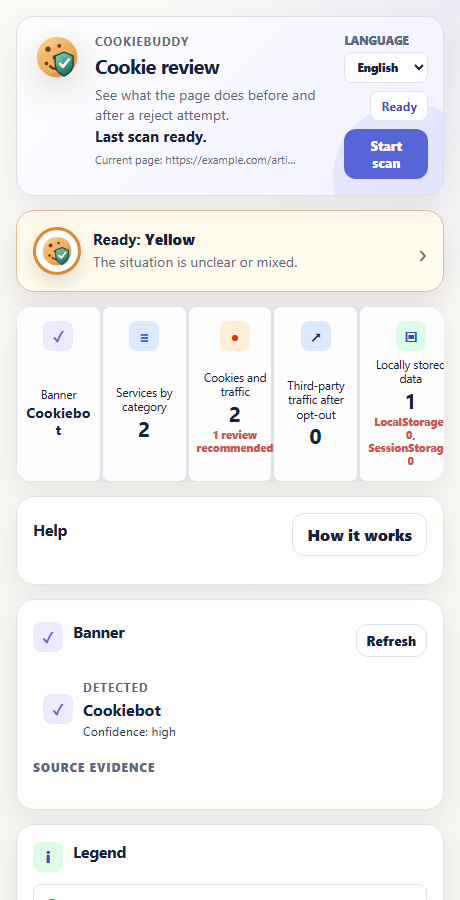
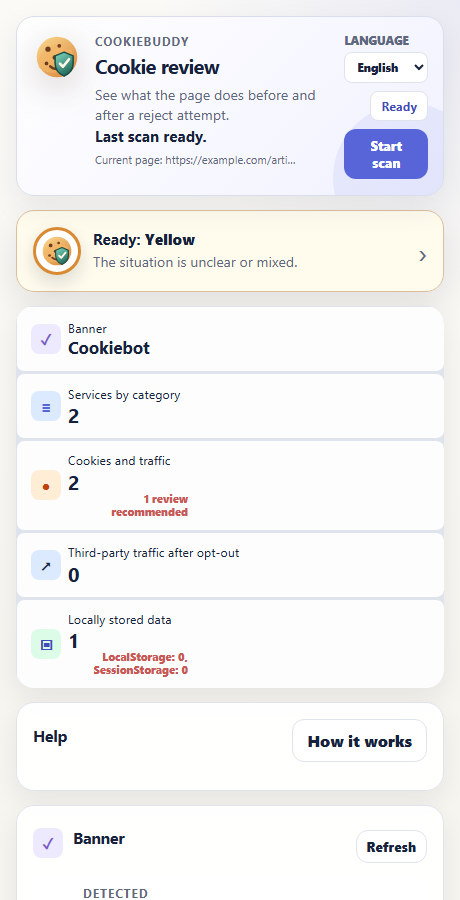
Stack overview metrics for popup readability

Changed region(s): [[0.0304, 0.3422, 0.9739, 0.6533], [0.0609, 0.6844, 0.9435, 1.0], [0.7913, 0.6844, 0.913, 0.7156]]

diff --git a/src/styles.css b/src/styles.css
@@ -1188,6 +1188,53 @@ body {
   }
 }
 
+/* Keep the overview readable in the narrow extension popup: one metric per row. */
+.overview-grid {
+  grid-template-columns: 1fr;
+}
+
+.overview-tile {
+  display: grid;
+  grid-template-columns: auto minmax(0, 1fr) auto;
+  align-items: center;
+  justify-items: start;
+  min-height: 66px;
+  padding: 12px 14px;
+  border-right: 0;
+  border-bottom: 1px solid var(--line);
+  text-align: left;
+}
+
+.overview-tile:last-child {
+  border-bottom: 0;
+}
+
+.overview-tile > div {
+  min-width: 0;
+}
+
+.overview-tile span:not(.tile-icon) {
+  max-width: none;
+  font-size: 0.78rem;
+}
+
+.overview-tile strong {
+  margin-top: 2px;
+  font-size: 1.05rem;
+}
+
+.overview-tile strong.numeric {
+  font-size: 1.25rem;
+}
+
+.overview-tile small {
+  grid-column: 3;
+  grid-row: 1;
+  max-width: 110px;
+  margin: 0 0 0 10px;
+  text-align: right;
+}
+
 @media (max-width: 420px) {
   .hero {
     display: grid;
@@ -1653,4 +1700,20 @@ body {
     max-width: 100%;
     white-space: normal;
   }
+}
+
+/* Keep the overview stacked at every popup width, including narrow mobile previews. */
+.overview-grid {
+  grid-template-columns: 1fr;
+}
+
+.overview-tile {
+  grid-template-columns: auto minmax(0, 1fr) auto;
+  border-right: 0;
+  border-bottom: 1px solid var(--line);
+  text-align: left;
+}
+
+.overview-tile:last-child {
+  border-bottom: 0;
 }
